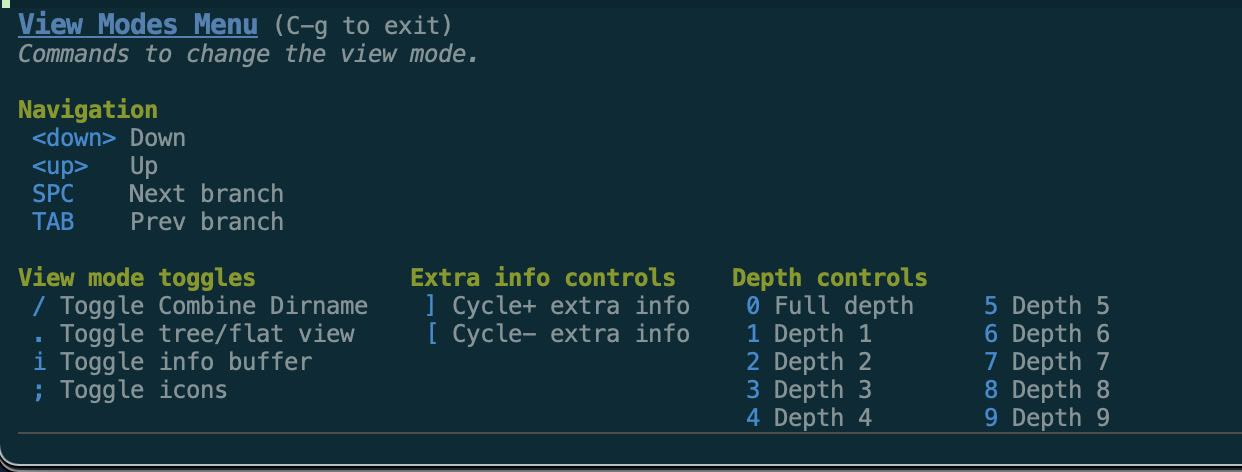
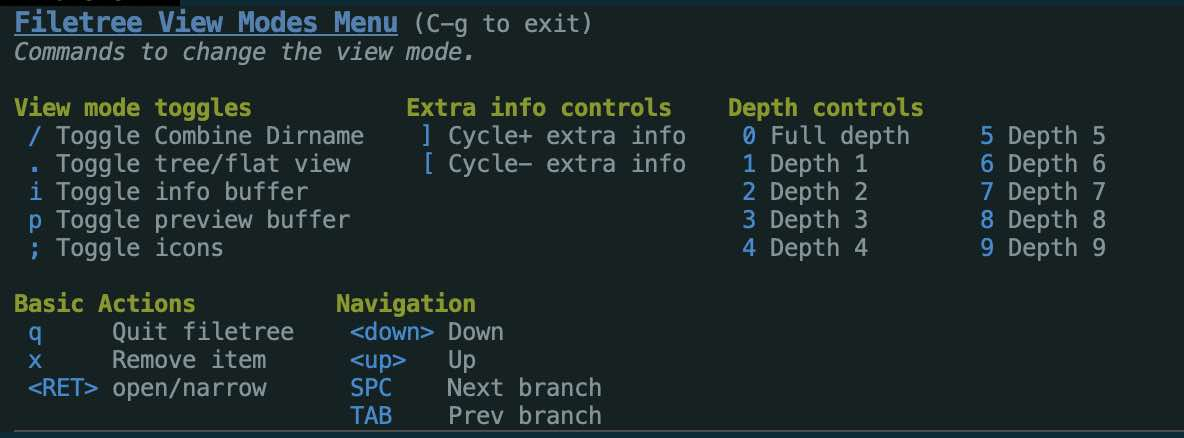
Preview buffer

Changed region(s): [[0.0, 0.2078, 1.0, 1.0], [0.0, 0.0, 0.5, 0.1484], [0.8125, 0.2671, 0.9375, 0.5936]]

diff --git a/README.md b/README.md
@@ -18,7 +18,7 @@ In addition to this file tree viewer functionality, there is also a file note ta
  * Show tree at different depths
  * Icons and configurable faces to visually differentiate file types
  * Display additional file info (mode, size, date, etc.) in columns to the left.  Support for user-defined columns.
- * File-specific notes dynamically updated in side window
+ * File-specific notes or preview dynamically updated in side window
  
 ***Interactive filtering & file discovery tools***
  * Filter files by file type or regex (or interactively via helm-based search)
